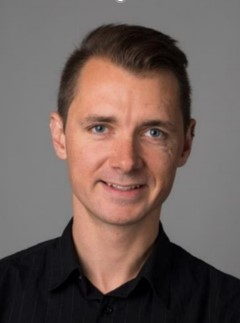
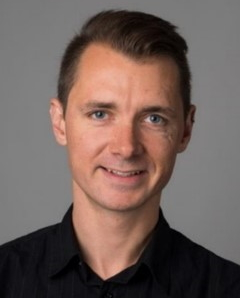
change pic and container width

diff --git a/src/styles/global.scss b/src/styles/global.scss
@@ -8,8 +8,8 @@ $grid-breakpoints: (
 $container-max-widths: (
   sm: 97%,
   md: 97%,
-  lg: 960px,
-  xl: 1140px
+  lg: 1140px, //960
+  xl: 1440px  //1140
 );
 
 @import "../../node_modules/bootstrap/scss/bootstrap";
